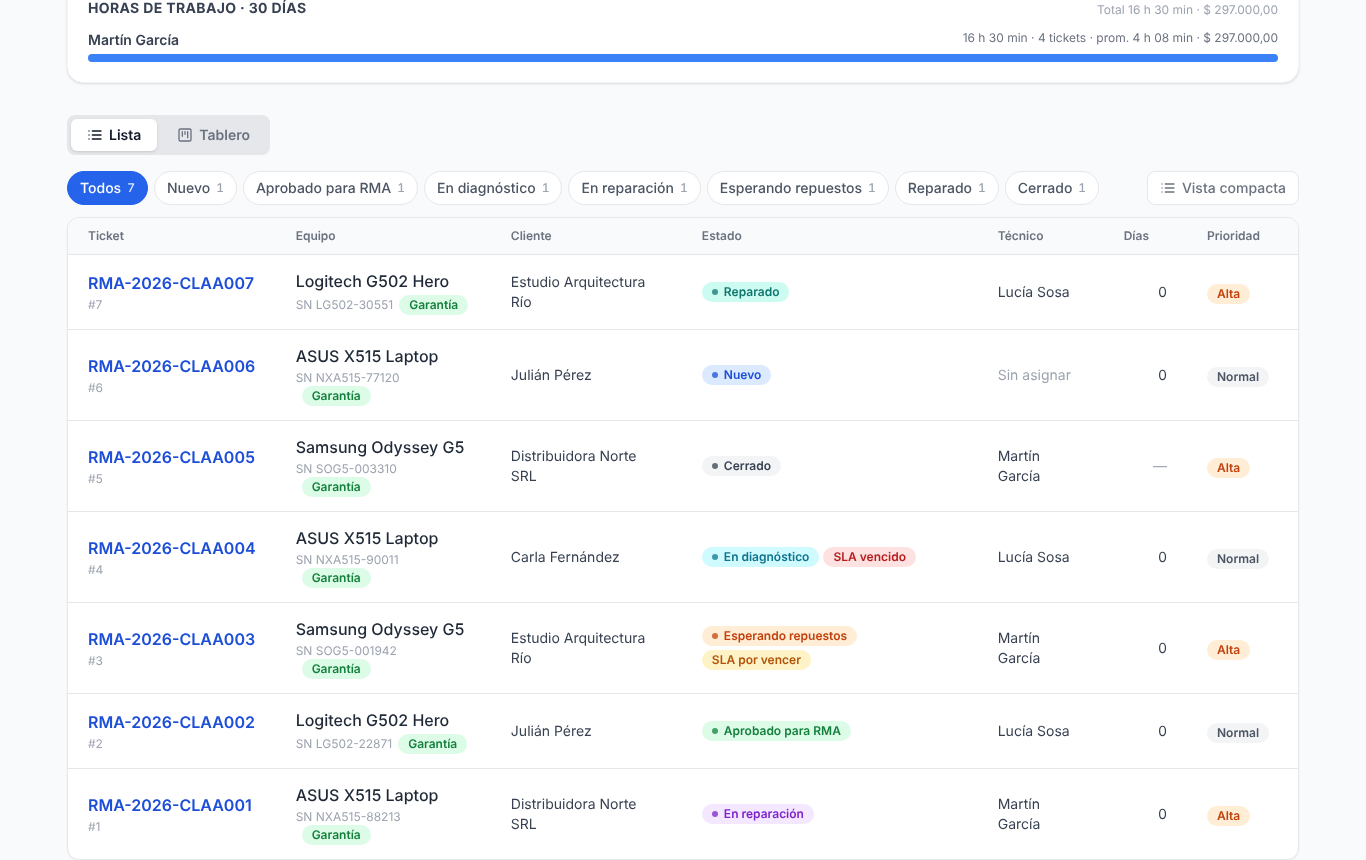
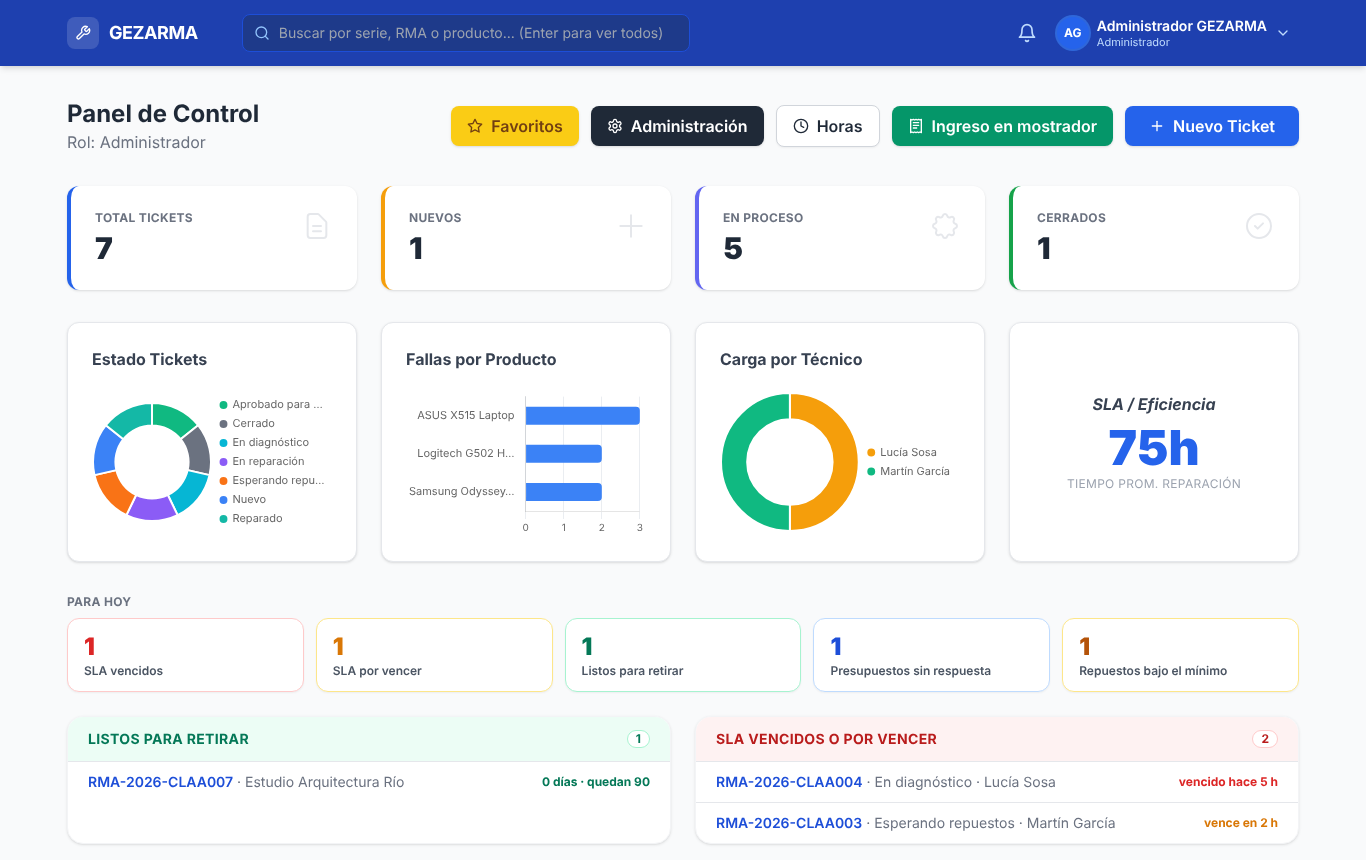
README: captura principal con el panel completo y nueva captura de la lista; lista y gráficos sin textos cortados

diff --git a/frontend/js/ui.js b/frontend/js/ui.js
@@ -1421,6 +1421,11 @@ const ui = {
             });
 
             const opts = { responsive: true, maintainAspectRatio: false, animation: false };
+            // Leyenda a la derecha, con puntos: entra entera en la tarjeta (abajo se cortaba)
+            // Nombres largos: recortados con "…" (el nombre completo queda en el tooltip)
+            const corto = (s, n = 16) => (s.length > n ? s.slice(0, n - 1) + '…' : s);
+            const leyenda = { position: 'right', labels: { usePointStyle: true, pointStyle: 'circle', boxWidth: 7, boxHeight: 7, padding: 8, font: { size: 11 },
+                generateLabels: ch => Chart.overrides.doughnut.plugins.legend.labels.generateLabels(ch).map(l => ({ ...l, text: corto(l.text, 15) })) } };
 
             const stateColors = {
                 'Nuevo': '#3b82f6', 'En revisión': '#f59e0b', 'Aprobado para RMA': '#10b981',
@@ -1437,25 +1442,27 @@ const ui = {
                 type: 'doughnut',
                 data: {
                     labels: stateLabels.map(l => I18N.tr(l)),
-                    datasets: [{ data: stateData, backgroundColor: stateBgs }]
+                    datasets: [{ data: stateData, backgroundColor: stateBgs, borderWidth: 2 }]
                 },
-                options: { ...opts, plugins: { legend: { position: 'bottom', labels: { font: { size: 10 } } } } },
+                options: { ...opts, cutout: '62%', plugins: { legend: leyenda } },
             });
             }
             if (!Object.keys(stats.fallas_por_producto).length) vacio('chart-products', 'Sin fallas registradas');
             else {
             window.myChart2 = new Chart(document.getElementById('chart-products').getContext('2d'), {
                 type: 'bar',
-                data: { labels: Object.keys(stats.fallas_por_producto), datasets: [{ label: I18N.tr('Fallas'), data: Object.values(stats.fallas_por_producto), backgroundColor: '#3b82f6' }] },
-                options: { ...opts, indexAxis: 'y', plugins: { legend: { display: false } } },
+                data: { labels: Object.keys(stats.fallas_por_producto), datasets: [{ label: I18N.tr('Fallas'), data: Object.values(stats.fallas_por_producto), backgroundColor: '#3b82f6', borderRadius: 4, maxBarThickness: 18 }] },
+                options: { ...opts, indexAxis: 'y', plugins: { legend: { display: false } },
+                    scales: { y: { grid: { display: false }, ticks: { font: { size: 11 }, callback(v) { return corto(this.getLabelForValue(v)); } } },
+                              x: { beginAtZero: true, ticks: { precision: 0, font: { size: 10 } }, grid: { color: 'rgba(148,163,184,.2)' } } } },
             });
             }
             if (!Object.keys(stats.tickets_por_tecnico).length) vacio('chart-techs', 'Ningún ticket asignado a un técnico todavía');
             else {
             window.myChart3 = new Chart(document.getElementById('chart-techs').getContext('2d'), {
-                type: 'pie',
-                data: { labels: Object.keys(stats.tickets_por_tecnico), datasets: [{ data: Object.values(stats.tickets_por_tecnico), backgroundColor: ['#f59e0b','#10b981','#3b82f6','#8b5cf6','#ef4444'] }] },
-                options: opts,
+                type: 'doughnut',
+                data: { labels: Object.keys(stats.tickets_por_tecnico), datasets: [{ data: Object.values(stats.tickets_por_tecnico), backgroundColor: ['#f59e0b','#10b981','#3b82f6','#8b5cf6','#ef4444'], borderWidth: 2 }] },
+                options: { ...opts, cutout: '62%', plugins: { legend: leyenda } },
             });
             }
         } catch (err) { console.error(err); }

diff --git a/frontend/js/ui/components.js b/frontend/js/ui/components.js
@@ -122,12 +122,12 @@ const components = (() => {
             ticket: `<td data-col="ticket" class="px-5 py-3.5">
                 <div class="font-semibold text-blue-700 whitespace-nowrap" translate="no">${esc(t.numero_rma)}</div>
                 <div class="t-sub text-xs text-gray-400 mt-0.5">#${t.id}</div></td>`,
-            equipo: `<td data-col="equipo" class="px-5 py-3.5 min-w-[11rem]">
+            equipo: `<td data-col="equipo" class="px-5 py-3.5 min-w-[14rem]">
                 <div class="font-medium text-gray-800">${esc(t.producto || 'Producto Genérico')}</div>
-                <div class="t-sub text-xs text-gray-400 mt-0.5"><span translate="no">SN ${esc(t.numero_serie)}</span>${garantiaBadge(t.en_garantia)}</div></td>`,
-            cliente: `<td data-col="cliente" class="px-5 py-3.5 text-sm text-gray-700" translate="no">${esc(t.usuario_nombre || '—')}</td>`,
-            estado: `<td data-col="estado" class="px-5 py-3.5"><div class="flex flex-wrap items-center gap-1">${statusBadge(t.estado)}${slaBadge(t.deadline_sla, t.estado, { soloAlertas: true }).replace('ml-2', '')}</div></td>`,
-            tecnico: `<td data-col="tecnico" class="px-5 py-3.5 text-sm">${t.tecnico_nombre ? `<span class="text-gray-700" translate="no">${esc(t.tecnico_nombre)}</span>` : '<span class="text-gray-400">Sin asignar</span>'}</td>`,
+                <div class="t-sub flex flex-wrap items-center gap-x-1.5 gap-y-1 text-xs text-gray-400 mt-0.5"><span translate="no" class="whitespace-nowrap">SN ${esc(t.numero_serie)}</span>${garantiaBadge(t.en_garantia).replace('ml-1.5', '')}</div></td>`,
+            cliente: `<td data-col="cliente" class="px-5 py-3.5 text-sm text-gray-700 min-w-[10rem]" translate="no">${esc(t.usuario_nombre || '—')}</td>`,
+            estado: `<td data-col="estado" class="px-5 py-3.5"><div class="flex flex-col items-start gap-1">${statusBadge(t.estado)}${slaBadge(t.deadline_sla, t.estado, { soloAlertas: true }).replace('ml-2', '')}</div></td>`,
+            tecnico: `<td data-col="tecnico" class="px-5 py-3.5 text-sm whitespace-nowrap">${t.tecnico_nombre ? `<span class="text-gray-700" translate="no">${esc(t.tecnico_nombre)}</span>` : '<span class="text-gray-400">Sin asignar</span>'}</td>`,
             dias: `<td data-col="dias" class="px-5 py-3.5 text-sm text-right tabular-nums ${dias >= 7 ? 'text-amber-700 font-semibold' : 'text-gray-700'}"
                 title="${esc(new Date(t.fecha_creacion).toLocaleDateString(I18N.locale))}">${dias == null ? '<span class="text-gray-400">—</span>' : `<span class="t-dias">${dias}</span>`}</td>`,
             prioridad: `<td data-col="prioridad" class="px-5 py-3.5">${priorityBadge(t.prioridad)}</td>`,

diff --git a/README.md b/README.md
@@ -39,6 +39,10 @@ Backend en **FastAPI** + SQLAlchemy (SQLite por defecto) y frontend en HTML/JS s
 
 ## Capturas
 
+![Lista de tickets](docs/capturas/12-lista.png)
+
+Lista de tickets: estados con su cantidad (filtran con un clic), días en el taller, alertas de SLA y orden por cualquier columna.
+
 | Detalle del ticket (taller) | Detalle del ticket (cliente) |
 |---|---|
 | ![Detalle visto por el taller](docs/capturas/03-detalle-taller.png) | ![Detalle visto por el cliente](docs/capturas/04-detalle-cliente.png) |
